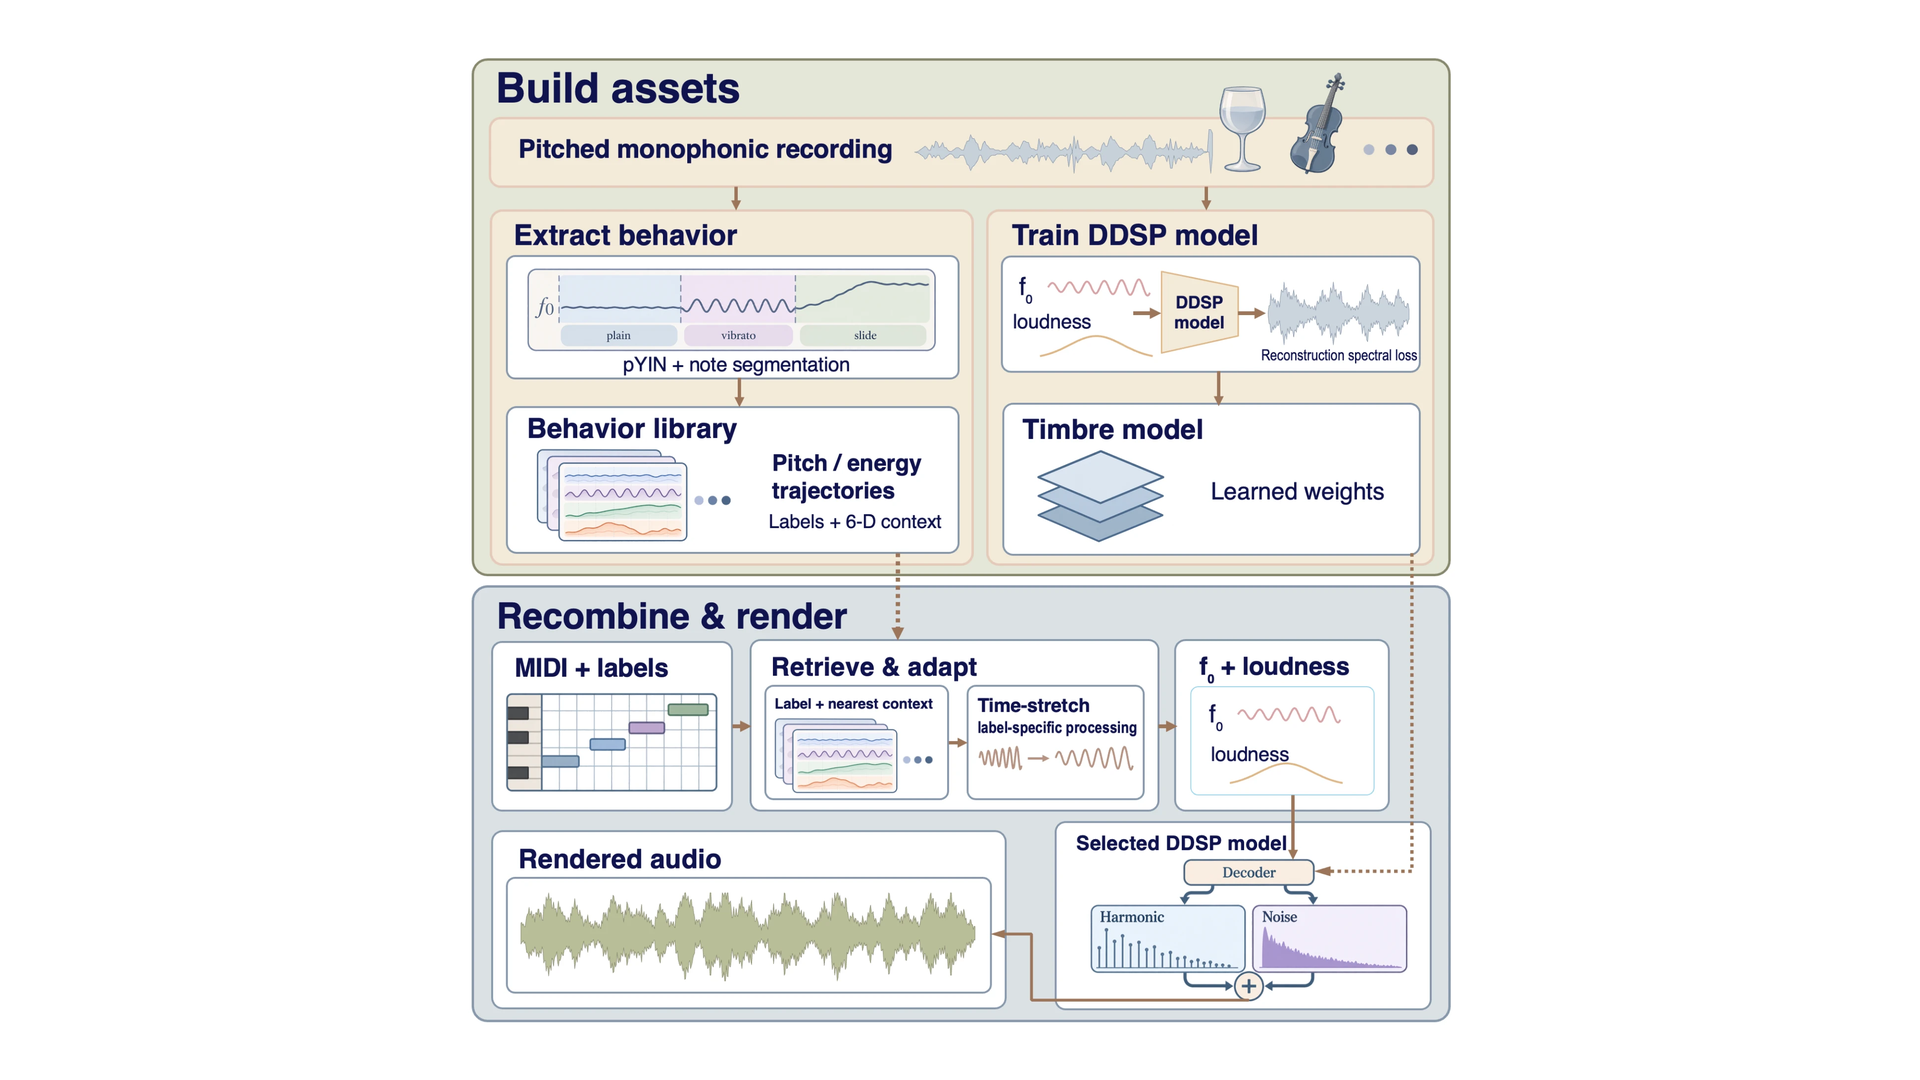
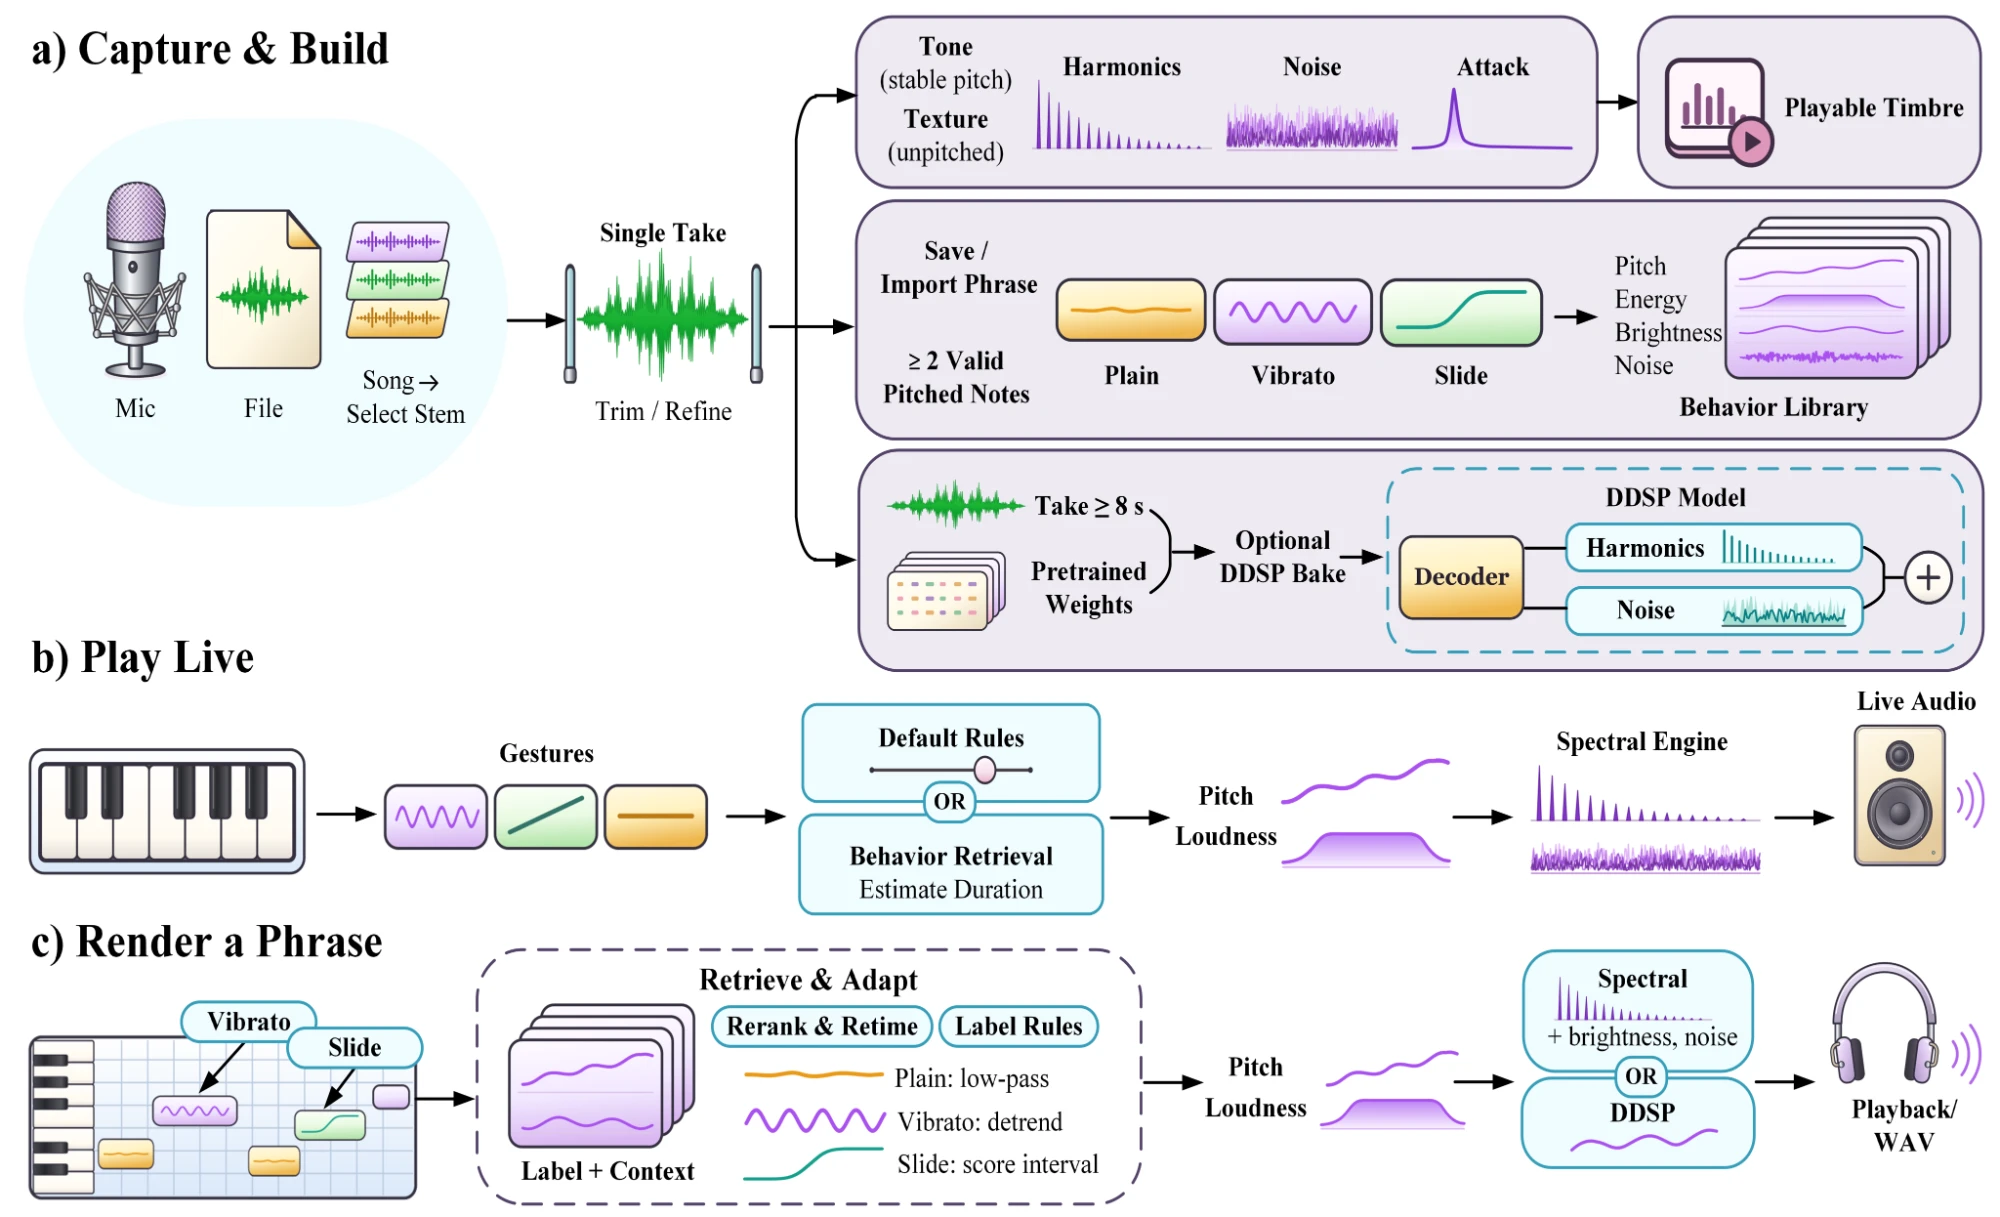
Quill: replace architecture diagram with full three-part overview
Swap the cropped neural-branch image for the complete Capture & Build /
Play Live / Render a Phrase diagram, remove the CSS crop hack, update
alt text, and add GPT-6.2 Astra icon credit in the caption.

diff --git a/project-quill.html b/project-quill.html
@@ -39,7 +39,7 @@
 @media(max-width:420px){.quill-matrix{gap:.3rem;grid-template-columns:minmax(3.5rem,1.1fr) repeat(4,minmax(0,1fr))}.quill-matrix span{font-size:.61rem;letter-spacing:.03em}.qm-corner{font-size:.52rem !important}.proj-paper{margin-left:4vw;margin-right:4vw;padding:1.4rem}}
 
 .quill-architecture-frame{overflow:hidden;border-radius:16px;background:#fff}
-.quill-architecture-frame img{display:block;width:196%;max-width:none;margin-left:-48%;border-radius:0}
+.quill-architecture-frame img{display:block;width:100%;max-width:none;border-radius:0}
 </style>
 </head>
 <body>
@@ -99,8 +99,8 @@
 <p><strong>Retrieval and rendering.</strong> For each MIDI note, <strong>articulation-conditioned nearest-neighbor retrieval</strong> filters entries by label and selects the one with the smallest Euclidean distance over the standardized context features. Its trajectories are resampled to the note duration, adding or removing whole vibrato cycles to keep the recorded rate. Pitch deviation sets <strong>f0</strong> and energy modulates <strong>loudness</strong>. The two assets exchange only these two signals.</p>
 </div>
 <figure class="proj-cover">
-<div class="quill-architecture-frame"><img alt="DDSP branch: extract a labeled behavior library, train a separate timbre model, then retrieve and adapt trajectories to render a new MIDI score" loading="lazy" src="images/quill_architecture.png"/></div>
-<figcaption>The neural branch, from capture to rendering.</figcaption></figure>
+<div class="quill-architecture-frame"><img alt="Quill system overview in three parts: capture and build timbre and behavior assets from recordings; play live from MIDI with real-time spectral synthesis; render a phrase with behavior retrieval and optional DDSP" loading="lazy" src="images/quill_architecture.png"/></div>
+<figcaption>System overview: capture, live play, and phrase rendering. Icons generated with GPT-6.2 Astra.</figcaption></figure>
 <div class="proj-content">
 <p><strong>In the app.</strong> Live playing uses the spectral synthesizer with optional real-time behavior retrieval. Rendering and WAV export can use the DDSP model.</p>
 <figure class="quill-app">
